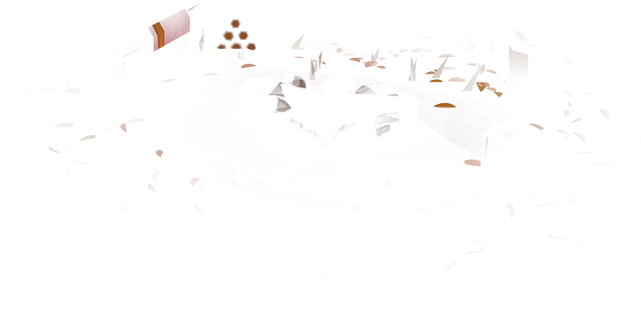
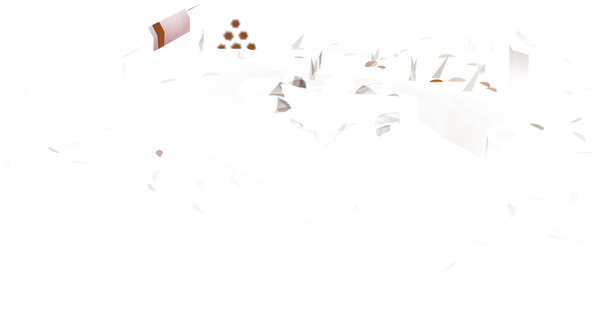
fix(gate): soften the ground further with a two-depth blur
The owner still found the ground a bit busy and asked for tasteful blur.

- The focus falloff starts closer to the lap and blurs in two depths: a light blur
  near the lap and a deep one further out, so it reads as a lens.
- The far lawn darkens and greys a little more.
- The leaf litter halves again, to about 360 leaves near the fire.
- The city bokeh discs lie out of focus, and the violet haze over the horizon is
  a little stronger.

diff --git a/index.html b/index.html
@@ -173,15 +173,17 @@
         top: calc(var(--hz) * 100% - 16%);
         height: 26%;
         background: #3b2758;
-        opacity: 0.55;
-        filter: blur(4cqw);
+        opacity: 0.65;
+        filter: blur(5cqw);
       }
+      /* The discs lie out of focus, as the far city does in the site's own campfire shot. */
       .ga-bokeh {
         left: 0;
         top: calc(var(--hz) * 100%);
         width: 1px;
         height: 1px;
         border-radius: 50%;
+        filter: blur(0.35cqw);
       }
       /* The pawprint ring round the lap. Each print fades in as the share passes its place. */
       .ga-paws {
@@ -433,7 +435,7 @@
       }
       /* Generated by scripts/gate-fireside.py. Do not edit by hand. */
       /* fireside:begin */
-      .ga-glow { left: 8.406%; top: 46.969%; width: 80.156%; height: 41.219%; }
+      .ga-glow { left: 8.438%; top: 46.969%; width: 74.688%; height: 41.219%; }
       .ga-pit { left: 37.906%; top: 55.594%; width: 23.563%; height: 12.188%; }
       .ga-fire { left: 39.045%; top: 40.557%; width: 21.91%; height: 24.698%; }
       .ga-k-nap { --kw: 0.2118; --kh: 0.1541; }
@@ -513,7 +515,7 @@
       #gate-art .ga-ones i:nth-child(9) { opacity: 0.0; animation: ga-dawn-ga-ones-i-nth-child-9 24s linear forwards; }
       @keyframes ga-dawn-ga-ones-i-nth-child-10 { 0% { opacity: 0.0; animation-timing-function: step-end; } 20% { opacity: 1.0; animation-timing-function: step-end; } 26.667% { opacity: 0.0; animation-timing-function: step-end; } 100% { opacity: 0.0; } }
       #gate-art .ga-ones i:nth-child(10) { opacity: 0.0; animation: ga-dawn-ga-ones-i-nth-child-10 24s linear forwards; }
[4 lines of base64/hex data omitted]
       /* fireside:end */

diff --git a/scripts/gate-fireside-pack.py b/scripts/gate-fireside-pack.py
@@ -33,7 +33,7 @@ INLINE = {'size': 1600, 'nap': 74, 'embers': 50, 'embers_size': 1200}
 # The focus falloff: the lawn past the lap blurs, darkens and greys a little, so Kinako and
 # the fire carry the picture. The radii are in units of the lap ellipse, the blur is a share
 # of the picture width, and the dark and grey shares apply at full falloff.
-FOCUS = {'inner': 1.15, 'outer': 2.6, 'blur': 0.011, 'dark': 0.5, 'grey': 0.3}
+FOCUS = {'inner': 0.95, 'outer': 2.1, 'blur': 0.02, 'dark': 0.58, 'grey': 0.38}
 QUALITY = {'scene': 82, 'glow': 80, 'pit': 84, 'fire': 82, 'k': 86}
 # The first paint: a soft copy of the whole picture, this many pixels wide.
 FIRST_WIDTH = 240
@@ -219,12 +219,17 @@ def defocus(rgba, mask):
     h, w = rgba.shape[:2]
     small = 800
     img = to_image(rgba).convert('RGBa').resize((small, small), Image.LANCZOS)
-    img = img.filter(ImageFilter.GaussianBlur(FOCUS['blur'] * small))
-    soft = np.asarray(img.resize((w, h), Image.BICUBIC).convert('RGBA'), dtype=np.float32) / 255
+    light = img.filter(ImageFilter.GaussianBlur(FOCUS['blur'] * small * 0.35))
+    deep = img.filter(ImageFilter.GaussianBlur(FOCUS['blur'] * small))
+    as_pre = lambda im: (lambda a: np.concatenate([a[..., :3] * a[..., 3:4], a[..., 3:4]], -1))(  # noqa: E731
+        np.asarray(im.resize((w, h), Image.BICUBIC).convert('RGBA'), dtype=np.float32) / 255)
     m = mask[..., None]
     pre = np.concatenate([rgba[..., :3] * rgba[..., 3:4], rgba[..., 3:4]], -1)
-    soft_pre = np.concatenate([soft[..., :3] * soft[..., 3:4], soft[..., 3:4]], -1)
-    mixed = pre * (1 - m) + soft_pre * m
+    # The light blur takes over in the first half of the falloff, the deep blur in the second.
+    near = np.clip(m * 2, 0, 1)
+    far = np.clip(m * 2 - 1, 0, 1)
+    mixed = pre * (1 - near) + as_pre(light) * near
+    mixed = mixed * (1 - far) + as_pre(deep) * far
     alpha = mixed[..., 3:4]
     rgb = np.where(alpha > 1e-4, mixed[..., :3] / np.maximum(alpha, 1e-4), 0)
     v = (rgb * [0.2126, 0.7152, 0.0722]).sum(-1, keepdims=True)

diff --git a/scripts/gate-fireside.py b/scripts/gate-fireside.py
@@ -427,8 +427,8 @@ def render_main():
     # Leaf litter ---------------------------------------------------------------------
     import random
     rng = random.Random(3)
-    # A light litter: the owner found a full carpet too busy, so the leaves stay few, near the
-    # fire, and a little dimmer than the site carpet.
+    # A light litter: the owner found a full carpet too busy, twice, so the leaves stay few,
+    # near the fire, and a little dimmer than the site carpet.
     leaf_mats = [toon(f'gate_leaf_{i}', linear(c), 0.48, moon, fire) for i, c in enumerate(CARPET)]
     shapes = []
     for i in range(3):
@@ -448,7 +448,7 @@ def render_main():
         bm.free()
         shapes.append(me)
     clear = [(fire, 0.8)]
-    for _ in range(700):
+    for _ in range(360):
         r = 0.8 + 2.2 * math.sqrt(rng.random())
         a = rng.random() * math.tau
         x, y = fire.x + math.cos(a) * r, fire.y + math.sin(a) * r
